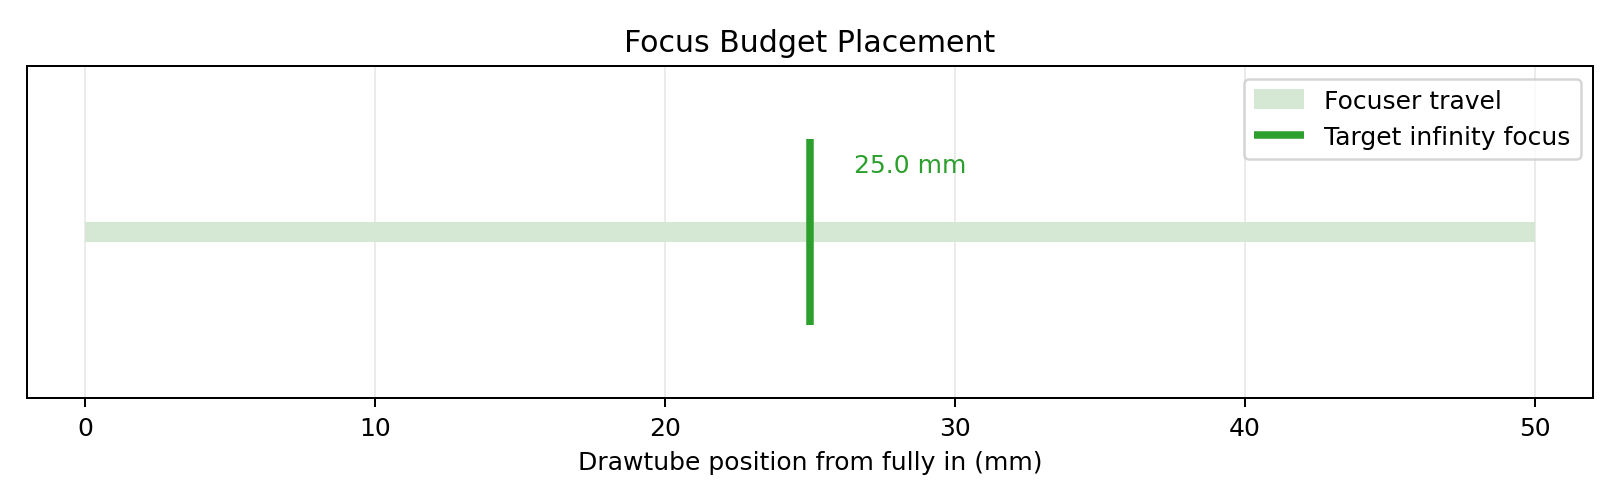
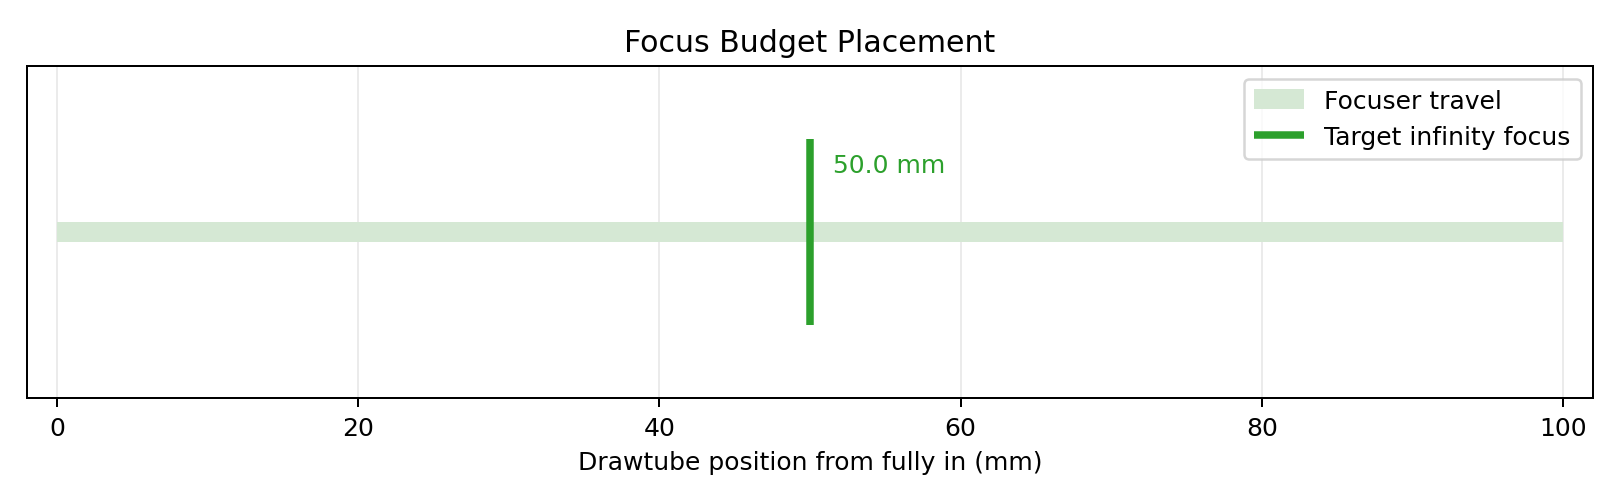
Confirm ±5 cm focuser travel as 100 mm rack in model and docs
Made-with: Cursor

diff --git a/q001-telescope-builder/model.py b/q001-telescope-builder/model.py
@@ -20,7 +20,8 @@ from typing import Iterable
 class TelescopeConfig:
     objective_diameter_mm: float = 106.0
     objective_focal_length_mm: float = 900.0
-    focuser_travel_mm: float = 50.0
+    # Builder-confirmed: rack focus ±5 cm → 100 mm total travel (see README).
+    focuser_travel_mm: float = 100.0
     eyepiece_focal_lengths_mm: tuple[float, ...] = (25.0, 10.0)
     eyepiece_apparent_fov_deg: float = 50.0
     # If unknown, keep this as a best-guess estimate and adjust after measurement.

diff --git a/q001-telescope-builder/README.md b/q001-telescope-builder/README.md
@@ -4,7 +4,7 @@ Foundation project for modeling and assembling a DIY refractor telescope using:
 
 - Objective lens: 106 mm diameter (nominal), 900 mm focal length (**confirmed** by the builder)
 - Eyepieces: 1.25" Plossl 25 mm and 10 mm (about 50 deg AFOV)
-- Focuser travel: 50 mm
+- Focuser travel: **±50 mm** rack (~**100 mm** total), **confirmed** by the builder
 
 References:
 
@@ -70,7 +70,8 @@ Core equations:
 ## 4) Current Assumptions
 
 - Objective focal length **`f_obj = 900 mm` is confirmed** for the first build. Clear aperture is still treated as **`D = 106 mm`** unless you measure the clear aperture at the cell.
-- Focuser travel is `50 mm`.
+- Focuser travel is **`100 mm` total** (builder reports **±50 mm** from a neutral focus position).  
+  If your hardware is only **5 cm total** travel (not ±5 cm), set `focuser_travel_mm = 50.0` in `model.py` and rerun `python model.py`.
 - Focuser flange-to-field-stop (fully in) is initially estimated in code as `70 mm`.
 - Design target is to place infinity focus near mid travel (~25 mm out from fully in).
 
@@ -105,7 +106,7 @@ Compares magnification, exit pupil, and approximate true field for your 25 mm an
 
 ![Focus budget](plots/focus_budget.png)
 
-Illustrates the 50 mm focuser travel and why targeting infinity focus near mid-travel is practical for build tolerance and eyepiece variation.
+Illustrates the confirmed focuser travel range and why targeting infinity focus near mid-travel is practical for build tolerance and eyepiece variation.
 
 ## 6) Cut/Drill Templates + 3D Printed Jigs
 
@@ -166,7 +167,7 @@ Suggested first print set:
 
 3. **Focuser installation**
    - Mount focuser square to the tube and centered to objective axis.
-   - Ensure travel is smooth across full 50 mm range.
+   - Ensure travel is smooth across the full rack range (~100 mm total).
 
 4. **Stray light control**
    - Matte-black interior.

diff --git a/q001-telescope-builder/aberration-analysis.md b/q001-telescope-builder/aberration-analysis.md
@@ -2,7 +2,12 @@
 
 This document captures the likely aberration modes observed in the first-build image and provides practical mitigation and test steps.
 
-**Confirmed build spec:** objective focal length **`f_obj = 900 mm`** (builder-verified). The analysis below uses that value for f-number and stop-down tradeoffs.
+**Confirmed build specs (builder-verified):**
+
+- Objective focal length **`f_obj = 900 mm`**
+- Focuser rack travel **±50 mm** (treat as **~100 mm total** usable travel in the model)
+
+The analysis below uses those values for f-number and stop-down tradeoffs.
 
 ## 1) Observed Symptoms
 

diff --git a/q001-telescope-builder/diagnostic-script.md b/q001-telescope-builder/diagnostic-script.md
@@ -8,7 +8,7 @@ Use this script to isolate whether the first-build image quality is limited main
 - eyepiece issues
 - smartphone afocal coupling artifacts
 
-This script matches the current build baseline: **`106 mm` clear aperture**, **`900 mm` objective focal length (confirmed)**, 25 mm and 10 mm eyepieces.
+This script matches the current build baseline: **`106 mm` clear aperture**, **`900 mm` objective focal length (confirmed)**, **~`100 mm` total focuser rack travel (±50 mm confirmed)**, 25 mm and 10 mm eyepieces.
 
 ## 1) Preparation (2 minutes)
 
